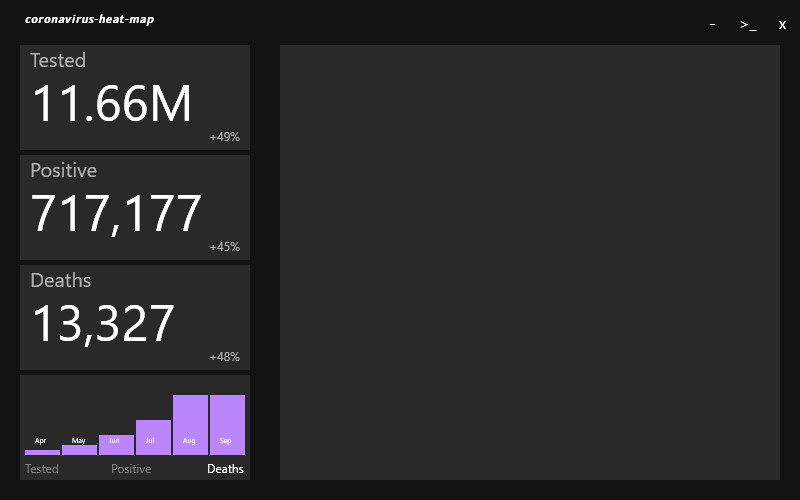
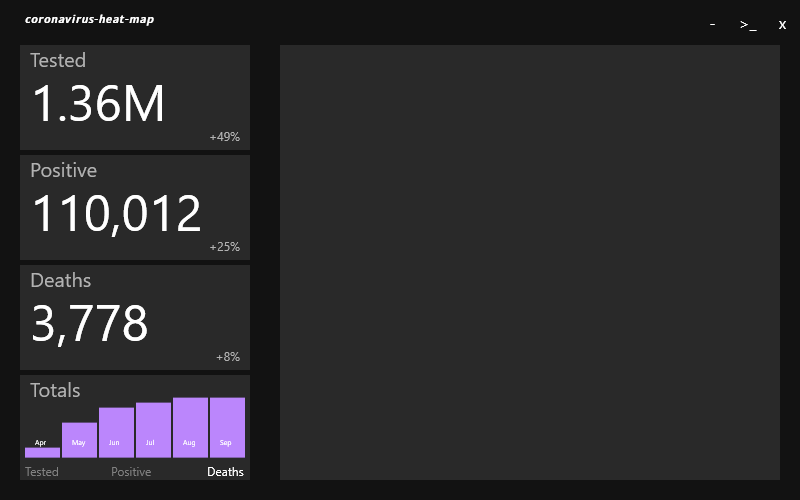
adjusting bar graph functionality

diff --git a/coronavirus-heat-map/MainWindow.xaml b/coronavirus-heat-map/MainWindow.xaml
@@ -127,9 +127,16 @@
                             Height="105"
                             Margin="0,330,0,0"
                             VerticalAlignment="Top">
+                <TextBlock Foreground="#B2B2B2"
+                           FontSize="20"
+                           HorizontalAlignment="Left"
+                           Margin="10,0,10,10" Panel.ZIndex="1">
+                    Totals
+                </TextBlock>
 
                 <!-- bar graph container, WxH: 230x85 -->
                 <Grid Background="#292929"
+                      Margin="0,-34,0,0"
                             Height="85"
                       Name="barGraph">
 

diff --git a/coronavirus-heat-map/MainWindow.xaml.cs b/coronavirus-heat-map/MainWindow.xaml.cs
@@ -23,10 +23,13 @@ namespace coronavirus_heat_map {
     /// </summary>
     public partial class MainWindow : Window {
 
+        // STATE SELECTED
+        public string STATE = "md";
+
         public MainWindow() {
 
             // Sleep window to allow for longer splash-screen
-            System.Threading.Thread.Sleep(500);
+            System.Threading.Thread.Sleep(5000);
             InitializeComponent();
 
             // Screen-Size Properties
@@ -40,7 +43,7 @@ namespace coronavirus_heat_map {
             CloseButton.Click += (s, e) => Close();
 
             // Left Side (would change via right-side input)
-            leftSide("ca");
+            leftSide(STATE);
 
             // Right-Side & Map
         }
@@ -66,11 +69,8 @@ namespace coronavirus_heat_map {
 
         public void buildBarGraph(string state, string dataType) {
 
+            // pull state data
             StateData st = new StateData(state);
-            List<int> tested = st.getNumTested();
-            List<int> positive = st.getNumPositive();
-            List<int> deaths = st.getNumDeaths();
-            List<int> time = st.getUnixTimes();
 
             // returns max value of all keys in dictionary (helpful for creating bargraph bounds)
             int maxValue = st.barGraphData(dataType).Values.Max();
@@ -109,16 +109,6 @@ namespace coronavirus_heat_map {
             month1Name.Text = monthStrings[months[5] - 1];
 
             // adjust margin-tops for each bar
-            /* 
-             * foreach (int d in dataNum)
-             *  find which double in barStops d is closest too
-             *  report back the index in barStops of that particular double
-             *  ((barStops.Count - index + 1) * 5) 
-             *  
-             *  NOTE: margins come at 5 already
-             *  NOTE: months go from month6 to month1
-            */
-
             int indexBarStop = 0;
             int currentMonth = 6;
             foreach (int d in dataNum) {
@@ -138,7 +128,7 @@ namespace coronavirus_heat_map {
                 // marginTop for each bar in barGraph
                 int marginTop = (((barStops.Count - indexBarStop + 1) * 5) + 5 >= 75) ? 70 : ((barStops.Count - indexBarStop + 1) * 5) + 5;
 
-                // to change backgrounds
+                // change color of each bar
                 var bc = new BrushConverter();
 
                 if (currentMonth == 6) {
@@ -176,20 +166,20 @@ namespace coronavirus_heat_map {
         }
 
 
-        /* use to select which data you'd like to see for the line graph */
+        /* use to select which data you'd like to see for the bar graph */
         public void barGraphTextTested(object sender, MouseButtonEventArgs e) {
             testedBar.Foreground = Brushes.White;
             positiveBar.Foreground = Brushes.Gray;
             deathsBar.Foreground = Brushes.Gray;
 
-            buildBarGraph("ca", "tested");
+            buildBarGraph(STATE, "tested");
         }
         public void barGraphTextPositive(object sender, MouseButtonEventArgs e) {
             testedBar.Foreground = Brushes.Gray;
             positiveBar.Foreground = Brushes.White;
             deathsBar.Foreground = Brushes.Gray;
 
-            buildBarGraph("ca", "positive");
+            buildBarGraph(STATE, "positive");
         }
 
         public void barGraphTextDeaths(object sender, MouseButtonEventArgs e) {
@@ -197,7 +187,7 @@ namespace coronavirus_heat_map {
             positiveBar.Foreground = Brushes.Gray;
             deathsBar.Foreground = Brushes.White;
 
-            buildBarGraph("ca", "deaths");
+            buildBarGraph(STATE, "deaths");
         }
 
     }
